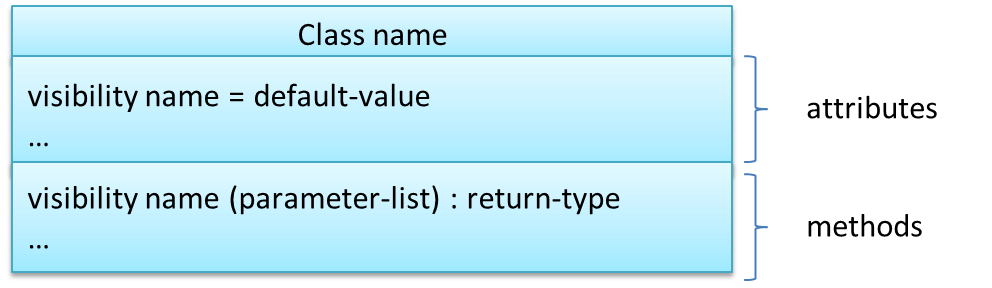
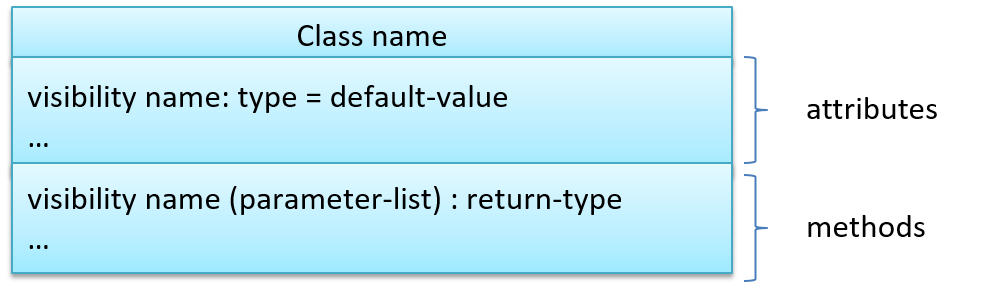
UML/CD/visibility: update diagram for python, add sample code

diff --git a/uml/classDiagrams/classes/what/text.md b/uml/classDiagrams/classes/what/text.md
@@ -15,7 +15,24 @@ The basic UML notations used to represent a _class_:<br>
 
 {{ icon_example }} A `Table` class shown in UML notation:
 
-<img src="{{baseUrl}}/uml/classDiagrams/classes/what/images/operations.png" height="150" />
+<img tags="m--cs2113 m--cs2103 m--tic2002" src="{{baseUrl}}/uml/classDiagrams/classes/what/images/operations.png" height="150" />
+
+<span tags="m--te3201">
+<puml>
+@startuml
+skinparam classAttributeIconSize 0
+skinparam backgroundcolor transparent
+skinparam shadowing false
+hide circle
+class Table {
+number: int = 0
+chairs: Chair[ ] = [ ]
+get_number(): int
+set_number(n:int)
+}
+@enduml
+</puml>
+</span>
 <p/>
 
 <panel type="seamless" header="The equivalent code">
@@ -88,8 +105,62 @@ visibility | Java | Python
 
 {{ icon_example }} `Table` class with visibilities shown:
 
-<img src="{{baseUrl}}/uml/classDiagrams/classes/what/images/operationsVisibility.png" height="150" />
+<img tags="m--cs2113 m--cs2103 m--tic2002" src="{{baseUrl}}/uml/classDiagrams/classes/what/images/operationsVisibility.png" height="150" />
+<span tags="m--te3201">
+<puml>
+@startuml
+skinparam classAttributeIconSize 0
+skinparam backgroundcolor transparent
+skinparam shadowing false
+hide circle
+class Table {
+<b><color:red>-</color>__number</b>: int = 0
+<b><color:red>-</color></b>__chairs: Chair[ ] = [ ]
+<b><color:red>+</color></b>get_number(): int
+<b><color:red>+</color></b>set_number(n:int)
+}
+@enduml
+</puml>
+</span>
 <p/>
+
+<panel type="seamless" header="The equivalent code">
+<div class="alt-java">
+
+```java
+class Table{
+
+    private Integer number;
+    private Chair[] chairs = null;
+
+    public Integer getNumber(){
+        //...
+    }
+
+    public void setNumber(Integer n){
+        //...
+    }
+}
+```
+</div>
+<div class="alt-python">
+
+```python
+class Table:
+
+  def __init__(self):
+    self.__number = 0
+    self.__chairs = []
+
+  def get_number(self):
+    # ...
+
+  def set_number(self, n):
+    # ...
+```
+</div>
+
+</panel>
 
 </box>
 
